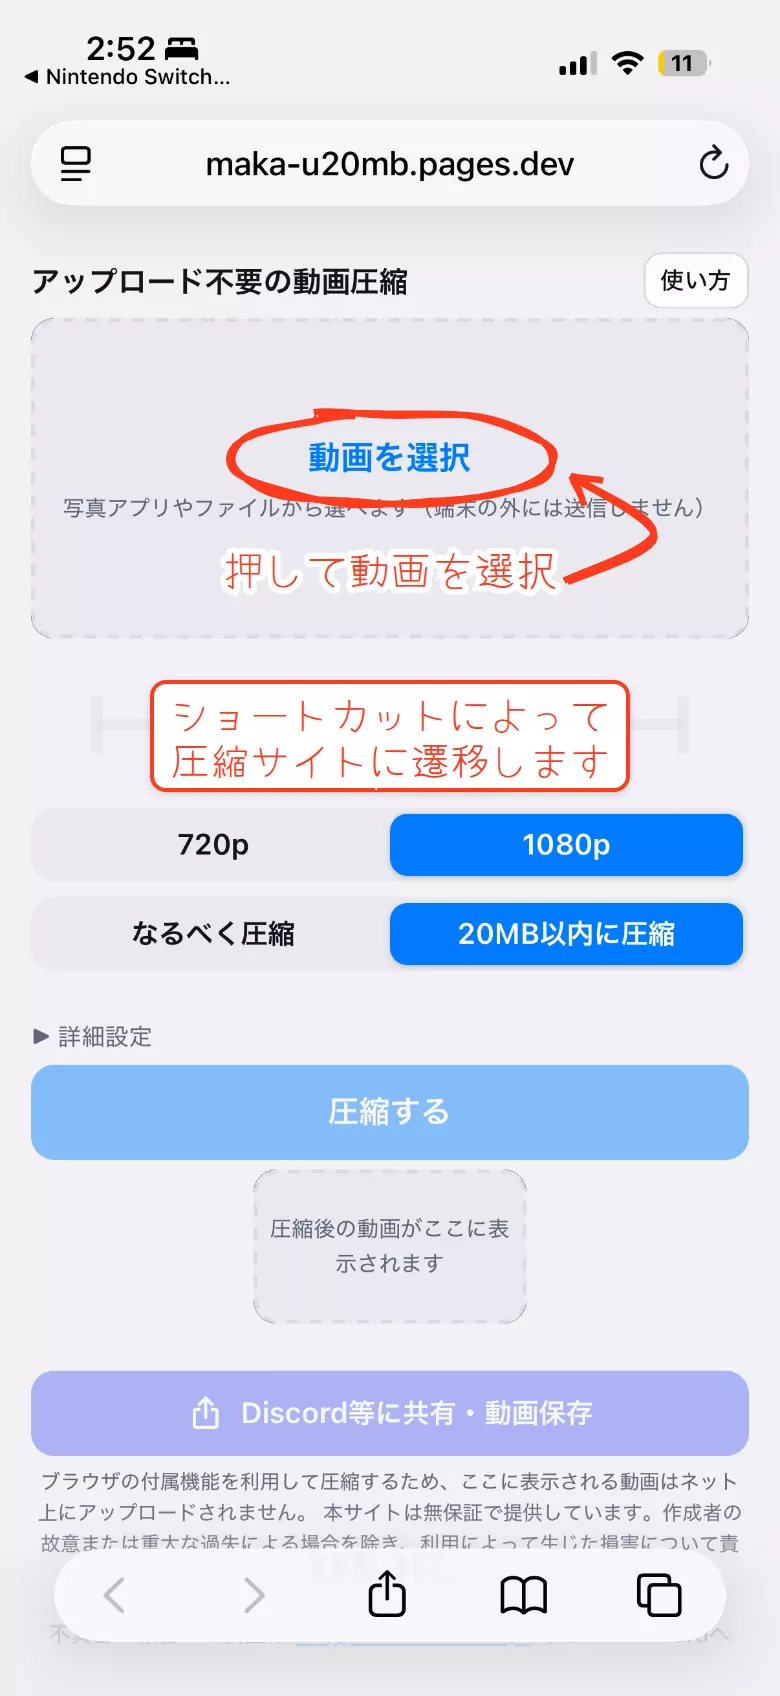
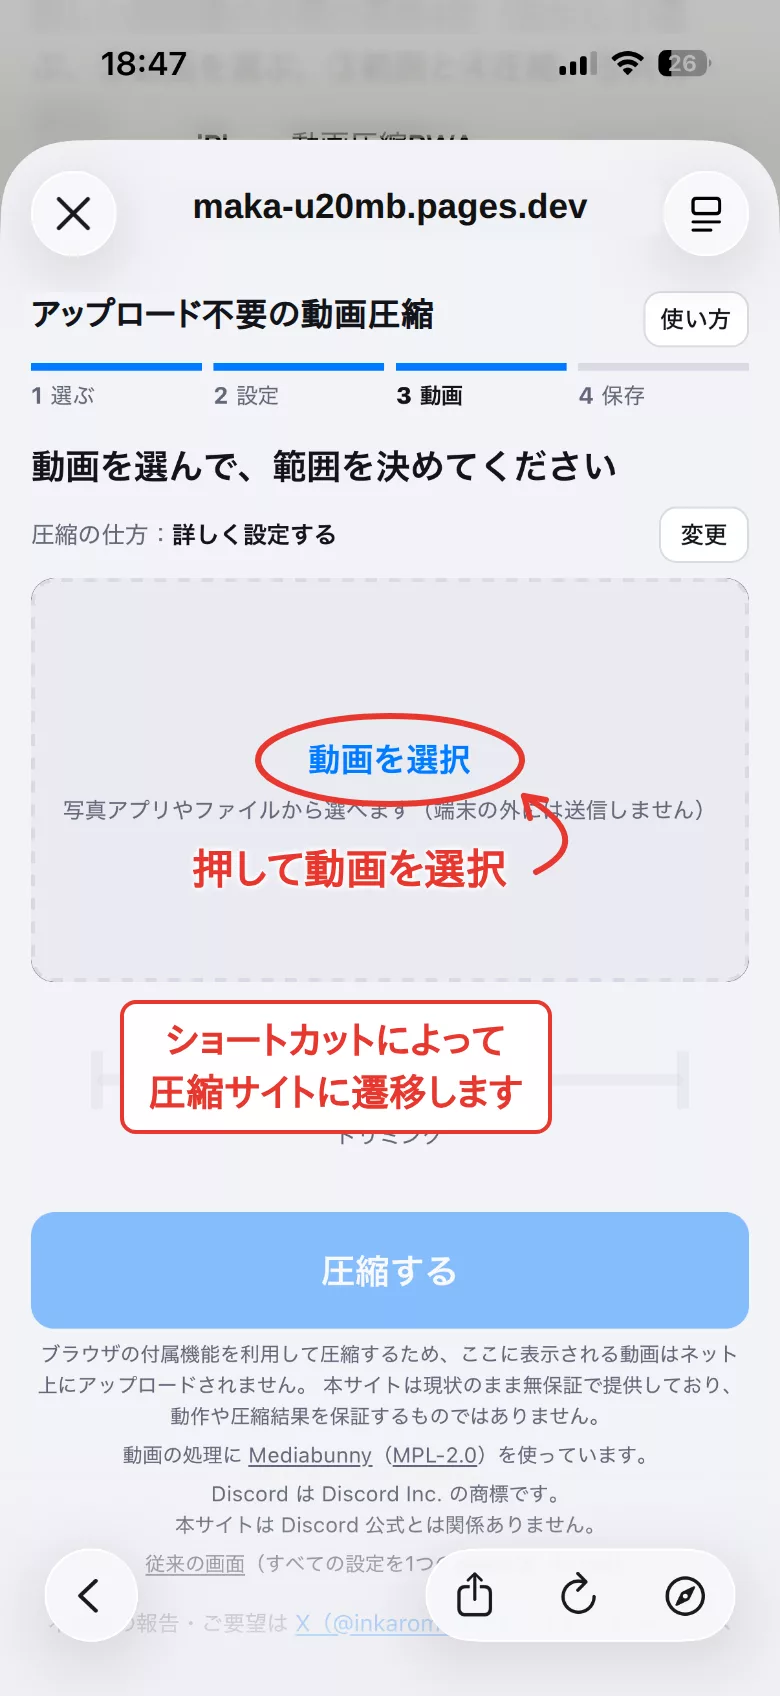
Update the shortcut guide images for the 3-step page
- sc-3.webp: the new page after the shortcut opens it, from the user's
  iPhone screenshot, annotated like before (circle on 動画を選択 and the
  transition note); the preview version and address are replaced with
  the production heading and domain, and the background is blurred more
- sc-url.webp: generated by tools/make-help-images.js from the
  詳しく設定する settings step, with the URL copy button highlighted
- shortcut.html: explain that the copy button is in 詳しく設定する

Claude-Session: https://claude.ai/code/session_01Kjx2uZRnB9w1XNEyRL87P8

diff --git a/tools/make-help-images.js b/tools/make-help-images.js
@@ -1,4 +1,5 @@
-// アプリの画面（3ステップ）の説明書の画像を作る（public/help/step-1.webp 〜 step-4.webp）
+// アプリの画面（3ステップ）の説明書の画像（public/help/step-1.webp 〜 step-4.webp）と、
+// ショートカットのページの「設定を指定して開く」の画像（public/help/sc-url.webp）を作る
 // テスト用のサーバーでアプリを開き、iPhone の画面の大きさで撮って、説明の書き込み（番号・枠・矢印）を重ね、WebP にする。
 // 画面を変えたら作り直す。
 //   使い方: node tools/make-help-images.js
@@ -75,8 +76,8 @@ function draw(marks) {
   }
 }
 
-async function shoot(page, name, marks) {
-  await page.evaluate(() => window.scrollTo(0, 0));
+async function shoot(page, name, marks, keepScroll) {
+  if (!keepScroll) await page.evaluate(() => window.scrollTo(0, 0));
   await page.evaluate(draw, marks);
   const png = path.join(os.tmpdir(), name + '.png');
   await page.screenshot({ path: png });
@@ -145,6 +146,24 @@ async function shoot(page, name, marks) {
       { type: 'frame', sel: '#shareBtn' },
       { type: 'note', n: '⑤', text: 'Discordに送る・写真に保存', x: 40, y: share.t - 62, to: [{ x: 195, y: share.t - 6 }] }
     ]);
+
+    // ショートカットのページ：「詳しく設定する」の設定の画面で「現在の設定を記憶したURLを生成してコピー」を押す
+    await page.setViewportSize({ width: 390, height: 844 });
+    await page.goto(BASE + '/?probe=off');
+    await page.waitForFunction(() => /対応 VideoEncoder=/.test(document.getElementById('diagOut').value));
+    await page.click('.choice[data-preset="custom"]');
+    await page.evaluate(() => {
+      navigator.clipboard.writeText = () => Promise.resolve();   // コピーしたことにする（「コピーしました」を出す）
+      document.getElementById('urlCopy').click();
+      const r = document.getElementById('urlCopy').getBoundingClientRect();
+      window.scrollBy(0, r.top - 560);   // ボタンが画面の下の方に来るようにする
+    });
+    await page.waitForTimeout(300);
+    const copy = await box('#urlCopy');
+    await shoot(page, 'sc-url', [
+      { type: 'frame', sel: '#urlCopy', pad: 6 },
+      { type: 'note', n: '★', text: '押すとURLがコピーされる', x: 70, y: copy.t - 58, to: [{ x: 300, y: copy.t - 8 }] }
+    ], true);
     await browser.close();
   } finally {
     server.kill();

diff --git a/public/shortcut.html b/public/shortcut.html
@@ -297,7 +297,8 @@
 
   <h2>5. 設定を指定して開く（応用）</h2>
   <p>ショートカット内のURLにパラメータを付与することで、予め項目を選択した状態にすることができます。</p>
-  <img class="shot" src="./help/sc-url.webp" width="390" height="844" loading="lazy" alt="詳細設定の「現在の設定を記憶したURLを生成してコピー」を押すと、今の設定を入れたURLがコピーされる">
+  <p class="section-lead">サイトで「詳しく設定する」を選び、設定の画面の下にある「現在の設定を記憶したURLを生成してコピー」を押すと、今の設定を入れたURLがコピーされます。</p>
+  <img class="shot" src="./help/sc-url.webp" width="390" height="844" loading="lazy" alt="「詳しく設定する」の設定の画面で「現在の設定を記憶したURLを生成してコピー」を押すと、今の設定を入れたURLがコピーされる">
 
   <p class="section-lead">設定を保存したURLをコピーしたら、ショートカットの一番下のURL部分にペーストしてください。</p>
   <img class="shot" src="./help/sc-url-paste.webp" width="390" height="848" loading="lazy" alt="ショートカットの一番下の「URLを開く」のURLの部分（https://maka-u20mb.pages.dev/）に、コピーしたURLをペーストする">

diff --git a/public/app.js b/public/app.js
@@ -57,7 +57,7 @@
   var KEYFRAME_INTERVAL = 2;             // 秒
   var MIN_TRIM_LENGTH = 0.5;             // 秒
   var AUDIO_DECODE_MAX_BYTES = 400 * MB;   // 互換モードで音声を扱うファイルサイズの上限
-  var APP_VERSION = '2026-10-01f';        // 診断情報に出す（どの版で起きたかを見分ける）
+  var APP_VERSION = '2026-10-01g';        // 診断情報に出す（どの版で起きたかを見分ける）
   var CANCELLED = 'cancelled';
   var SNAPSHOT_MAX_BYTES = 600 * MB;     // Android で動画をブラウザ内に写し取る上限（これより大きい動画は写さない）
   var STALLED = 'stalled';

diff --git a/public/sw.js b/public/sw.js
@@ -9,7 +9,7 @@
 'use strict';
 
 var CACHE_PREFIX = 'video-compressor-under20mb-';   // このアプリのキャッシュ名の頭（同じドメインの別アプリのキャッシュは消さない）
-var CACHE = CACHE_PREFIX + 'v173';
+var CACHE = CACHE_PREFIX + 'v174';
 var NETWORK_TIMEOUT_MS = 3000;   // ネット優先のとき、ネットの応答をこれだけ待ってからキャッシュを使う
 
 // Cloudflare Pages のプレビュー（<ブランチ名>.<プロジェクト名>.pages.dev）と手元の確認環境だけネット優先にする

diff --git a/README.md b/README.md
@@ -463,7 +463,7 @@ iPhone・Android の実機では、`https://maka-u20mb.pages.dev/selftest.html` 
 | `public/_headers` | Cloudflare Pages が付けるセキュリティ用のHTTPヘッダー（CSP など。読み込めるのはこのサイトのファイルだけ、他サイトへの埋め込みは禁止。同じサイトの中の埋め込みは自己テストのために許可） |
 | `public/manifest.json` | PWAの定義（名前「アップロード不要の動画圧縮」、ホーム画面のアイコン名「20MB圧縮」、スタンドアロン表示） |
 | `public/icons/` | アイコン（PNG） |
-| `public/help/` | 説明書の画像（WebP。説明書を開いたときだけ読み込む）。アプリの画面の `step-1〜4.webp` は `node tools/make-help-images.js` で作る（テスト用のサーバーで画面を撮り、番号・枠・矢印を書き込む。画面を変えたら作り直す）。従来の画面の `help-1〜3.webp` は手で作ったもの |
+| `public/help/` | 説明書の画像（WebP。説明書を開いたときだけ読み込む）。アプリの画面の `step-1〜4.webp` と、ショートカットのページの `sc-url.webp` は `node tools/make-help-images.js` で作る（テスト用のサーバーで画面を撮り、番号・枠・矢印を書き込む。画面を変えたら作り直す）。従来の画面の `help-1〜3.webp` は手で作ったもの |
 | `public/shortcut.html` | iPhoneのショートカットを併用した使い方のページ（説明書のカードから開く。画像は `public/help/sc-*.webp`） |
 | `public/selftest.html` / `public/selftest.js` | 実機での自己テストのページ（どこからもリンクしない。開発者向け） |
 | `package.json` / `tools/mediabunny-entry.js` | 同梱ライブラリを作り直すときと、テストに使う設定（公開はされない） |
